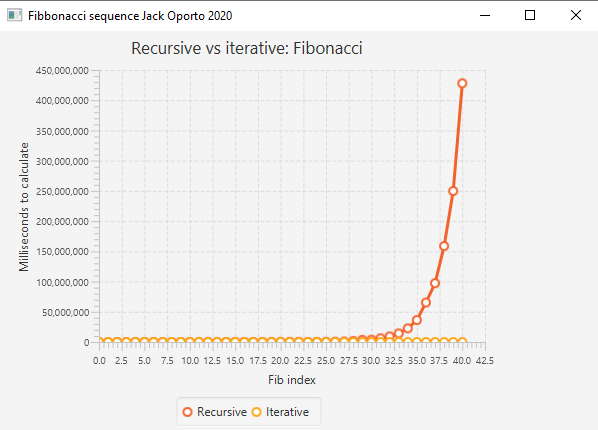
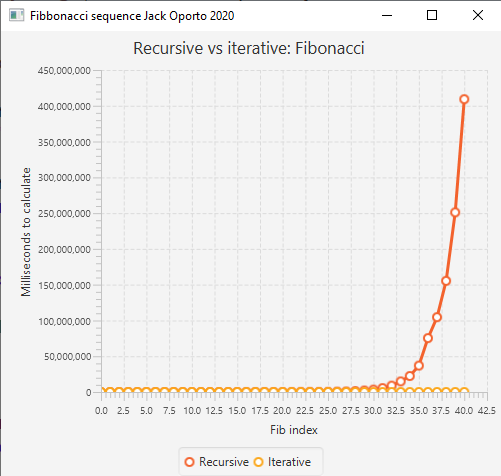
Updates/cleaned code

diff --git a/src/application/Main.java b/src/application/Main.java
@@ -10,6 +10,7 @@ import javafx.scene.chart.NumberAxis;
 import javafx.scene.chart.XYChart;
 import javafx.scene.chart.XYChart.Series;
 import javafx.scene.layout.HBox;
+import javafx.scene.layout.Priority;
 
 
 /* Name: Jack Oporto
@@ -39,36 +40,37 @@ public class Main extends Application {
 	@Override
 	public void start(Stage primaryStage) throws Exception{
 		
+		//Scene and HBox to put everything inside of
 		HBox root = new HBox();
-		Scene scene = new Scene(root, 600, 400);
+		Scene scene = new Scene(root, 500, 450);
 		
+		//X and Y values set
 		NumberAxis xAxis = new NumberAxis();
 		xAxis.setLabel("Fib index");
-		
 		NumberAxis yAxis = new NumberAxis();
 		yAxis.setLabel("Milliseconds to calculate ");
 		
+		//Linechart created
 		LineChart lineChart = new LineChart(xAxis, yAxis);
 		lineChart.setTitle("Recursive vs iterative: Fibonacci ");
 		
-		//XYChart.Series<String, Number> data = new XYChart.Series<>();
-		//data.setName("Fibonacci sequence");
-		
-		
+		//Seperate lines in the graph created
 		XYChart.Series series1 = new XYChart.Series();
 		series1.setName("Recursive");
-		
 		XYChart.Series series2 = new XYChart.Series();
 		series2.setName("Iterative");
 		
+		//This gets the data and puts it in the corrosponding chart
 		for(int i = 0; i<=40 ; i++) {
 			series1.getData().add(new XYChart.Data(i, getRecTime(i)));
 			series2.getData().add(new XYChart.Data(i, getIterTime(i)));
 		}
 		
+		//Adds content to the HBox
 		lineChart.getData().addAll(series1, series2);
 		root.getChildren().add(lineChart);
 		
+		//Adds HBox to the stage
 		primaryStage.setTitle("Fibbonacci sequence Jack Oporto 2020");
 		primaryStage.setScene(scene);
 		primaryStage.show();
@@ -110,6 +112,8 @@ public class Main extends Application {
 	}
 	
 	//This returns back the milliseconds it took to perform the calculation
+	//If I figured this out sooner I'd have figured a way to consolidate these
+	//functions into one.
 	public static long getIterTime(long index) {
 		long startTime = System.nanoTime();
 		fibIterative(index);
